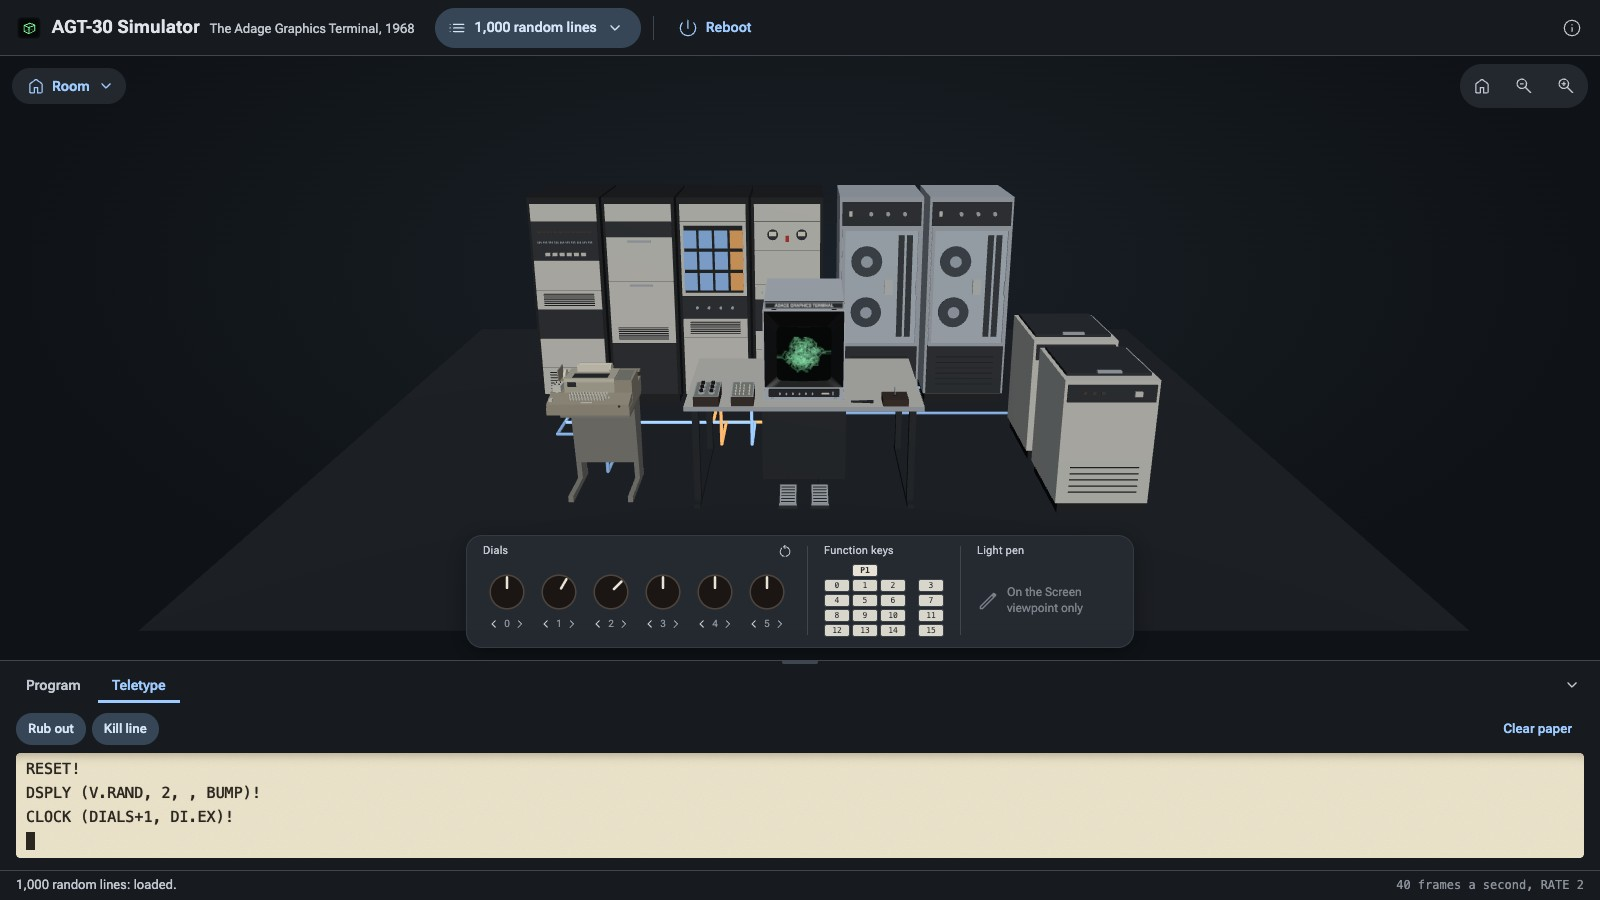
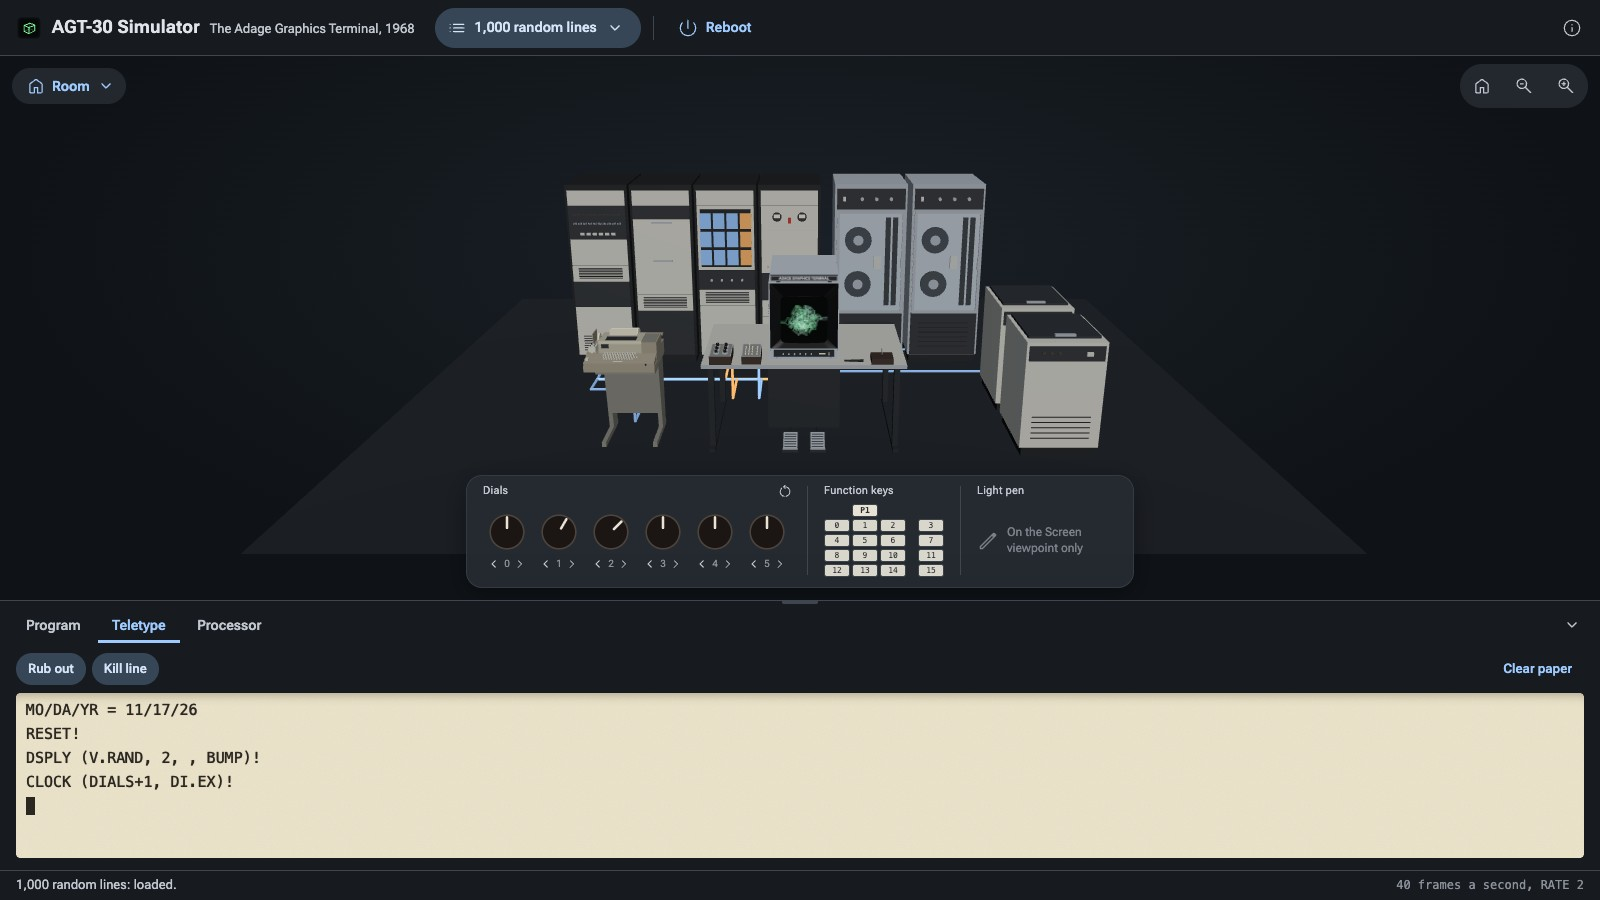
v0.0.2
The version, its stamps, the CHANGELOG's 0.0.2 section and the README's
pictures. The dock starts at 30 % of the window's height: at 36 % the
picture lost too much room on a 900 px window.

Changed region(s): [[0.0, 0.5289, 1.0, 0.9333], [0.3125, 0.1867, 0.75, 0.56]]

diff --git a/index.html b/index.html
@@ -6,67 +6,67 @@
     <meta name="viewport" content="width=device-width, initial-scale=1">
     <meta name="description" content="The Adage Graphics Terminal AGT-30 (1968) in your browser: a 3D picture turned by a hybrid analog array and drawn on a refreshed vector CRT, with its Teletype and console.">
     <title>AGT-30 Simulator</title>
-    <link rel="icon" href="images/favicon.svg?v=0.0.1" type="image/svg+xml">
-    <link rel="stylesheet" href="css/style.css?v=0.0.1">
+    <link rel="icon" href="images/favicon.svg?v=0.0.2" type="image/svg+xml">
+    <link rel="stylesheet" href="css/style.css?v=0.0.2">
     <!-- Every file name here carries the version (?v=), and so does each module the
          scripts import, through this map. pnpm version writes them, or pnpm stamp
          (tools/stamp.mjs); do not edit them by hand. -->
     <script type="importmap">
     {
       "imports": {
-        "three": "./vendor/three/build/three.module.js?v=0.0.1",
-        "three/addons/controls/OrbitControls.js": "./vendor/three/examples/jsm/controls/OrbitControls.js?v=0.0.1",
-        "three/addons/utils/BufferGeometryUtils.js": "./vendor/three/examples/jsm/utils/BufferGeometryUtils.js?v=0.0.1",
-        "./js/accept/check.js": "./js/accept/check.js?v=0.0.1",
-        "./js/accept/crt.js": "./js/accept/crt.js?v=0.0.1",
-        "./js/accept/model.js": "./js/accept/model.js?v=0.0.1",
-        "./js/accept/scene.js": "./js/accept/scene.js?v=0.0.1",
-        "./js/app/about.js": "./js/app/about.js?v=0.0.1",
-        "./js/app/aboutData.js": "./js/app/aboutData.js?v=0.0.1",
-        "./js/app/dock.js": "./js/app/dock.js?v=0.0.1",
-        "./js/app/link.js": "./js/app/link.js?v=0.0.1",
-        "./js/app/main.js": "./js/app/main.js?v=0.0.1",
-        "./js/app/processor.js": "./js/app/processor.js?v=0.0.1",
-        "./js/app/programCard.js": "./js/app/programCard.js?v=0.0.1",
-        "./js/app/runner.js": "./js/app/runner.js?v=0.0.1",
-        "./js/app/selftest.js": "./js/app/selftest.js?v=0.0.1",
-        "./js/app/stage.js": "./js/app/stage.js?v=0.0.1",
-        "./js/app/strip.js": "./js/app/strip.js?v=0.0.1",
-        "./js/app/teletype.js": "./js/app/teletype.js?v=0.0.1",
-        "./js/l10n/en.js": "./js/l10n/en.js?v=0.0.1",
-        "./js/l10n/l10n.js": "./js/l10n/l10n.js?v=0.0.1",
-        "./js/scene/terminal3d.js": "./js/scene/terminal3d.js?v=0.0.1",
-        "./js/scene/viewer.js": "./js/scene/viewer.js?v=0.0.1",
-        "./js/sim/adept.js": "./js/sim/adept.js?v=0.0.1",
-        "./js/sim/agt.js": "./js/sim/agt.js?v=0.0.1",
-        "./js/sim/amos.js": "./js/sim/amos.js?v=0.0.1",
-        "./js/sim/amoscode.js": "./js/sim/amoscode.js?v=0.0.1",
-        "./js/sim/array.js": "./js/sim/array.js?v=0.0.1",
-        "./js/sim/dpr2.js": "./js/sim/dpr2.js?v=0.0.1",
-        "./js/sim/dsply.js": "./js/sim/dsply.js?v=0.0.1",
-        "./js/sim/figures.js": "./js/sim/figures.js?v=0.0.1",
-        "./js/sim/font.js": "./js/sim/font.js?v=0.0.1",
-        "./js/sim/frameclock.js": "./js/sim/frameclock.js?v=0.0.1",
-        "./js/sim/image.js": "./js/sim/image.js?v=0.0.1",
-        "./js/sim/listing.js": "./js/sim/listing.js?v=0.0.1",
-        "./js/sim/programs.js": "./js/sim/programs.js?v=0.0.1",
-        "./js/sim/teletype.js": "./js/sim/teletype.js?v=0.0.1",
-        "./js/sim/terminal.js": "./js/sim/terminal.js?v=0.0.1",
-        "./js/sim/vecgen.js": "./js/sim/vecgen.js?v=0.0.1",
-        "./js/sim/words.js": "./js/sim/words.js?v=0.0.1",
-        "./js/ui/components.js": "./js/ui/components.js?v=0.0.1",
-        "./js/view/beam.js": "./js/view/beam.js?v=0.0.1",
-        "./js/view/crt.js": "./js/view/crt.js?v=0.0.1",
-        "./js/view/phosphor.js": "./js/view/phosphor.js?v=0.0.1",
-        "./js/view/theme.js": "./js/view/theme.js?v=0.0.1",
-        "./js/view/traces.js": "./js/view/traces.js?v=0.0.1",
-        "./package.json": "./package.json?v=0.0.1",
-        "./params/terminal.json": "./params/terminal.json?v=0.0.1",
-        "./vendor/material-symbols/icons.js": "./vendor/material-symbols/icons.js?v=0.0.1",
-        "./vendor/three/build/three.core.js": "./vendor/three/build/three.core.js?v=0.0.1",
-        "./vendor/three/build/three.module.js": "./vendor/three/build/three.module.js?v=0.0.1",
-        "./vendor/three/examples/jsm/controls/OrbitControls.js": "./vendor/three/examples/jsm/controls/OrbitControls.js?v=0.0.1",
-        "./vendor/three/examples/jsm/utils/BufferGeometryUtils.js": "./vendor/three/examples/jsm/utils/BufferGeometryUtils.js?v=0.0.1"
+        "three": "./vendor/three/build/three.module.js?v=0.0.2",
+        "three/addons/controls/OrbitControls.js": "./vendor/three/examples/jsm/controls/OrbitControls.js?v=0.0.2",
+        "three/addons/utils/BufferGeometryUtils.js": "./vendor/three/examples/jsm/utils/BufferGeometryUtils.js?v=0.0.2",
+        "./js/accept/check.js": "./js/accept/check.js?v=0.0.2",
+        "./js/accept/crt.js": "./js/accept/crt.js?v=0.0.2",
+        "./js/accept/model.js": "./js/accept/model.js?v=0.0.2",
+        "./js/accept/scene.js": "./js/accept/scene.js?v=0.0.2",
+        "./js/app/about.js": "./js/app/about.js?v=0.0.2",
+        "./js/app/aboutData.js": "./js/app/aboutData.js?v=0.0.2",
+        "./js/app/dock.js": "./js/app/dock.js?v=0.0.2",
+        "./js/app/link.js": "./js/app/link.js?v=0.0.2",
+        "./js/app/main.js": "./js/app/main.js?v=0.0.2",
+        "./js/app/processor.js": "./js/app/processor.js?v=0.0.2",
+        "./js/app/programCard.js": "./js/app/programCard.js?v=0.0.2",
+        "./js/app/runner.js": "./js/app/runner.js?v=0.0.2",
+        "./js/app/selftest.js": "./js/app/selftest.js?v=0.0.2",
+        "./js/app/stage.js": "./js/app/stage.js?v=0.0.2",
+        "./js/app/strip.js": "./js/app/strip.js?v=0.0.2",
+        "./js/app/teletype.js": "./js/app/teletype.js?v=0.0.2",
+        "./js/l10n/en.js": "./js/l10n/en.js?v=0.0.2",
+        "./js/l10n/l10n.js": "./js/l10n/l10n.js?v=0.0.2",
+        "./js/scene/terminal3d.js": "./js/scene/terminal3d.js?v=0.0.2",
+        "./js/scene/viewer.js": "./js/scene/viewer.js?v=0.0.2",
+        "./js/sim/adept.js": "./js/sim/adept.js?v=0.0.2",
+        "./js/sim/agt.js": "./js/sim/agt.js?v=0.0.2",
+        "./js/sim/amos.js": "./js/sim/amos.js?v=0.0.2",
+        "./js/sim/amoscode.js": "./js/sim/amoscode.js?v=0.0.2",
+        "./js/sim/array.js": "./js/sim/array.js?v=0.0.2",
+        "./js/sim/dpr2.js": "./js/sim/dpr2.js?v=0.0.2",
+        "./js/sim/dsply.js": "./js/sim/dsply.js?v=0.0.2",
+        "./js/sim/figures.js": "./js/sim/figures.js?v=0.0.2",
+        "./js/sim/font.js": "./js/sim/font.js?v=0.0.2",
+        "./js/sim/frameclock.js": "./js/sim/frameclock.js?v=0.0.2",
+        "./js/sim/image.js": "./js/sim/image.js?v=0.0.2",
+        "./js/sim/listing.js": "./js/sim/listing.js?v=0.0.2",
+        "./js/sim/programs.js": "./js/sim/programs.js?v=0.0.2",
+        "./js/sim/teletype.js": "./js/sim/teletype.js?v=0.0.2",
+        "./js/sim/terminal.js": "./js/sim/terminal.js?v=0.0.2",
+        "./js/sim/vecgen.js": "./js/sim/vecgen.js?v=0.0.2",
+        "./js/sim/words.js": "./js/sim/words.js?v=0.0.2",
+        "./js/ui/components.js": "./js/ui/components.js?v=0.0.2",
+        "./js/view/beam.js": "./js/view/beam.js?v=0.0.2",
+        "./js/view/crt.js": "./js/view/crt.js?v=0.0.2",
+        "./js/view/phosphor.js": "./js/view/phosphor.js?v=0.0.2",
+        "./js/view/theme.js": "./js/view/theme.js?v=0.0.2",
+        "./js/view/traces.js": "./js/view/traces.js?v=0.0.2",
+        "./package.json": "./package.json?v=0.0.2",
+        "./params/terminal.json": "./params/terminal.json?v=0.0.2",
+        "./vendor/material-symbols/icons.js": "./vendor/material-symbols/icons.js?v=0.0.2",
+        "./vendor/three/build/three.core.js": "./vendor/three/build/three.core.js?v=0.0.2",
+        "./vendor/three/build/three.module.js": "./vendor/three/build/three.module.js?v=0.0.2",
+        "./vendor/three/examples/jsm/controls/OrbitControls.js": "./vendor/three/examples/jsm/controls/OrbitControls.js?v=0.0.2",
+        "./vendor/three/examples/jsm/utils/BufferGeometryUtils.js": "./vendor/three/examples/jsm/utils/BufferGeometryUtils.js?v=0.0.2"
       }
     }
     </script>
@@ -74,7 +74,7 @@
   <body>
     <header id="topbar">
       <div class="brand">
-        <img class="brand-mark" src="images/logo.svg?v=0.0.1" alt="">
+        <img class="brand-mark" src="images/logo.svg?v=0.0.2" alt="">
         <span class="brand-name" data-l10n="app.name">AGT-30 Simulator</span>
         <span class="brand-tag" data-l10n="app.tagline"></span>
       </div>
@@ -157,6 +157,6 @@
     </section>
 
     <footer id="status" role="status" aria-live="polite"><span id="status-text"></span><span id="fps" class="fps"></span></footer>
-    <script type="module" src="js/app/main.js?v=0.0.1"></script>
+    <script type="module" src="js/app/main.js?v=0.0.2"></script>
   </body>
 </html>

diff --git a/css/fonts.css b/css/fonts.css
@@ -6,7 +6,7 @@
   font-style: normal;
   font-display: swap;
   font-weight: 100 1000;
-  src: url(../vendor/roboto-flex/files/roboto-flex-latin-ext-wght-normal.woff2?v=0.0.1) format("woff2-variations");
+  src: url(../vendor/roboto-flex/files/roboto-flex-latin-ext-wght-normal.woff2?v=0.0.2) format("woff2-variations");
   unicode-range: U+0100-02BA, U+02BD-02C5, U+02C7-02CC, U+02CE-02D7, U+02DD-02FF, U+0304, U+0308, U+0329, U+1D00-1DBF, U+1E00-1E9F, U+1EF2-1EFF, U+2020, U+20A0-20AB, U+20AD-20C0, U+2113, U+2C60-2C7F, U+A720-A7FF;
 }
 @font-face {
@@ -14,6 +14,6 @@
   font-style: normal;
   font-display: swap;
   font-weight: 100 1000;
-  src: url(../vendor/roboto-flex/files/roboto-flex-latin-wght-normal.woff2?v=0.0.1) format("woff2-variations");
+  src: url(../vendor/roboto-flex/files/roboto-flex-latin-wght-normal.woff2?v=0.0.2) format("woff2-variations");
   unicode-range: U+0000-00FF, U+0131, U+0152-0153, U+02BB-02BC, U+02C6, U+02DA, U+02DC, U+0304, U+0308, U+0329, U+2000-206F, U+20AC, U+2122, U+2191, U+2193, U+2212, U+2215, U+FEFF, U+FFFD;
 }

diff --git a/js/app/dock.js b/js/app/dock.js
@@ -13,7 +13,7 @@ const STAGE_MIN = 320;
 /** The dock's least open height, px. */
 const DOCK_MIN = 120;
 /** Its height at start: this share of the window, so the Teletype shows a dozen lines or more, and never less than DOCK_START_MIN px. */
-const DOCK_START_SHARE = 0.36;
+const DOCK_START_SHARE = 0.3;
 const DOCK_START_MIN = 210;
 /** One arrow key's step on the handle, px. */
 const KEY_STEP = 24;

diff --git a/css/style.css b/css/style.css
@@ -3,8 +3,8 @@
    with its band, card and console strip floating over it), the dock below (U1), the status
    line. The page never scrolls. */
 
-@import url("theme.css?v=0.0.1");
-@import url("fonts.css?v=0.0.1");
+@import url("theme.css?v=0.0.2");
+@import url("fonts.css?v=0.0.2");
 
 :root {
   font-family: var(--font);

diff --git a/CHANGELOG.md b/CHANGELOG.md
@@ -2,15 +2,26 @@
 
 What changed in each release. Versions follow `package.json` and are tagged `vX.Y.Z` ([docs/development.md](docs/development.md), *Branches, versions and releases*). Versions 0.0.x are pre-releases. The decisions cited (D1, U8, R14, …) are in [docs/ui-design.md](docs/ui-design.md), [design/architecture.md](design/architecture.md) and [design/reconstructions.md](design/reconstructions.md).
 
-## Unreleased
+## 0.0.2
 
-- The DPR-2's instruction encodings are now those of the NCSU tapes (R1; [research/dpr2-encodings.md](research/dpr2-encodings.md)): the layout, BR 2 and IC 3, destinations numbered in octal as the block diagram does, and the codes of the instructions the tapes show. Their octal words change. The processor also runs 'L, the operand in the next word.
-- The assembler is ADEPT as its manual describes it (R8): macros, REPEAT and IREPEAT, conditional translation, STRING and ASCII, `.`, `$` externals, a space between terms as `+`, rotations, mnemonics as values, and the NCSU sources' instructions (conditional transfers, numbered destinations, 'L, PINT). All 34 routines of the tripp tape assemble to their binaries' words. TEXT now fills only the words it needs, so the programs write a short image name's second word.
-- The processor follows its manual, which M. Howard found (DPR2SPI; [research/dpr2-manual.md](research/dpr2-manual.md)): the codes of the special instructions (OPTY, OPCR, CNVT, OPTI; SKAN and SKLS are gone); AN and LS as defined, so −0 is negative and has lower significance; AS adding a sign-extended lower half to all of AR; 'F's operand the instruction itself; indirect chains, and 'X incrementing a word before it is read; JPSR keeping its word's upper half; the EAU's product and quotient as fractions (R6); PINT on channel 14 (R10). The programs' sources follow: arguments are taken with `MDAR'I S`, then `MDAR'I'X S`, and a routine returns with `JUMP'I'X S`; whole constants are loaded with 'L; loops count up. A dial is read through GDD1 and the converter, ADC5 (R7). Six acceptance checks pin these (CPU-5 to CPU-10).
-- A third dock tab, Processor (U15): the DPR-2's registers and interrupts, and core listed with the programs' symbols as instructions, display items or words, with Go to, places to go, and Follow. It only looks.
-- The monitor asks the date at start, `MO/DA/YR = `, and the simulator answers it at once, so nothing waits on a new reader. From the 1971 monitor manual it also takes `V!`, `CORE!`, `DEC!`, `OCT!`, `MARK!` and `RLSE`, and answers `*` for an argument that does not evaluate (R9).
-- `tools/amos-tape.mjs` reads the NCSU tape images; `tools/dpr2-pairs.mjs` pairs their source with their binaries; `tools/adept-check.mjs` assembles their sources and compares.
-- The headless launcher never leaves Chrome running.
+The processor becomes the real DPR-2. Since v0.0.1, M. Howard's images of NCSU's tapes, with real ADEPT source and binaries, and Adage's own manual for the processor have come to light; the simulator now follows both, and a new tab shows the processor at work.
+
+**The machine**
+- The DPR-2 follows its manual (DPR2SPI; [research/dpr2-manual.md](research/dpr2-manual.md)), which the NCSU tapes bear out ([research/dpr2-encodings.md](research/dpr2-encodings.md)): the instruction layout and every code (R1, settled); AN and LS as defined, so −0 is negative and has lower significance; AS adding a sign-extended lower half to all of AR; 'F's operand the instruction itself; 'L, the operand in the next word; indirect chains, and 'X incrementing a word before it is read; JPSR keeping its word's upper half; the EAU's product and quotient as fractions, checked against the manual's examples (R6, settled); PINT on channel 14 (R10). The octal words in core are now the real machine's.
+- A dial is read as on the AGT/30: GDD1 selects it, and the converter ADC5 puts it in S5 (R7).
+- The assembler is ADEPT as its manual describes it (R8): macros, REPEAT and IREPEAT, conditional translation, STRING and ASCII, `.`, `$` externals, a space between terms as `+`, rotations, mnemonics as values, and the NCSU sources' instructions. All 34 routines of the NCSU tripp tape assemble to their binaries' words. TEXT fills only the words it needs.
+- The monitor follows the 1971 AMRMX manual (R9): at start it asks the date, `MO/DA/YR = `, and the simulator answers it at once, so nothing waits on a new reader; it takes `V!`, `CORE!`, `DEC!`, `OCT!`, `MARK!` and `RLSE`, and answers `*` for an argument that does not evaluate.
+- The programs' sources follow the real instruction set: a routine takes its arguments with `MDAR'I S`, then `MDAR'I'X S`, and returns with `JUMP'I'X S`; whole constants are loaded with 'L; loops count up, since 1 − 1 is −0.
+
+**The page**
+- A third dock tab, **Processor** (U15): the DPR-2's registers and interrupts, and core listed with the programs' symbols, read as instructions, display items or words; Go to an address or a symbol, places to go chosen from what runs and what is shown, and Follow, which keeps the processor's last instruction in view. It only looks. A view the real AGT never had.
+- The dock starts at a share of the window's height, so the Teletype shows a dozen lines or more.
+- The README is written for new users: a quick start, the machine's ideas beside the nearest thing today, and a guide to the page.
+
+**Research and tools**
+- Notes on the NCSU tapes, the DPR-2's block diagram and manual, and AMRMX on NCSU's system pack ([research/](research/)), and a log of our correspondence.
+- `tools/amos-tape.mjs` reads the NCSU tape images; `tools/dpr2-pairs.mjs` pairs their source with their binaries; `tools/adept-check.mjs` assembles their sources and compares. The tapes themselves are not in the repository.
+- `pnpm check` runs 113 tests, among them CPU-5 to CPU-10 and MON-5 to MON-6 for the above. The headless launcher never leaves Chrome running.
 
 ## 0.0.1
 

diff --git a/docs/ui-design.md b/docs/ui-design.md
@@ -125,7 +125,7 @@ The dock is full width under the stage, resizable by its top edge, and folds to 
 - **Teletype** is the paper and keyboard (U9).
 - **Processor** looks into the DPR-2 (U15). *(v0.0.2)*
 
-A folded dock opens on Program when a program is chosen; an open one stays on the tab the reader chose, and the other tab gets an activity dot. *(build, after the manual check: choosing a program first switched an open dock back to Program, away from the Teletype the reader was watching.)* Its tab carries an activity dot meanwhile (as in the 8800 simulator). The stage keeps at least 320 px of height. Growing the dock shrinks the stage, and the 3D view refits (U4). The dock starts at 36 % of the window's height, and never below 210 px, so the Teletype shows a dozen lines or more. *(v0.0.2, after the manual check: a fixed 210 px showed only four lines of paper on a large window.)*
+A folded dock opens on Program when a program is chosen; an open one stays on the tab the reader chose, and the other tab gets an activity dot. *(build, after the manual check: choosing a program first switched an open dock back to Program, away from the Teletype the reader was watching.)* Its tab carries an activity dot meanwhile (as in the 8800 simulator). The stage keeps at least 320 px of height. Growing the dock shrinks the stage, and the 3D view refits (U4). The dock starts at 30 % of the window's height, and never below 210 px, so the Teletype shows a dozen lines or more. *(v0.0.2, after the manual check: a fixed 210 px showed only four lines of paper on a large window.)*
 
 *Why below:* the room is a wide, flat subject, so a dock on the right would letterbox it. The Teletype needs the width.
 *Rejected:*
